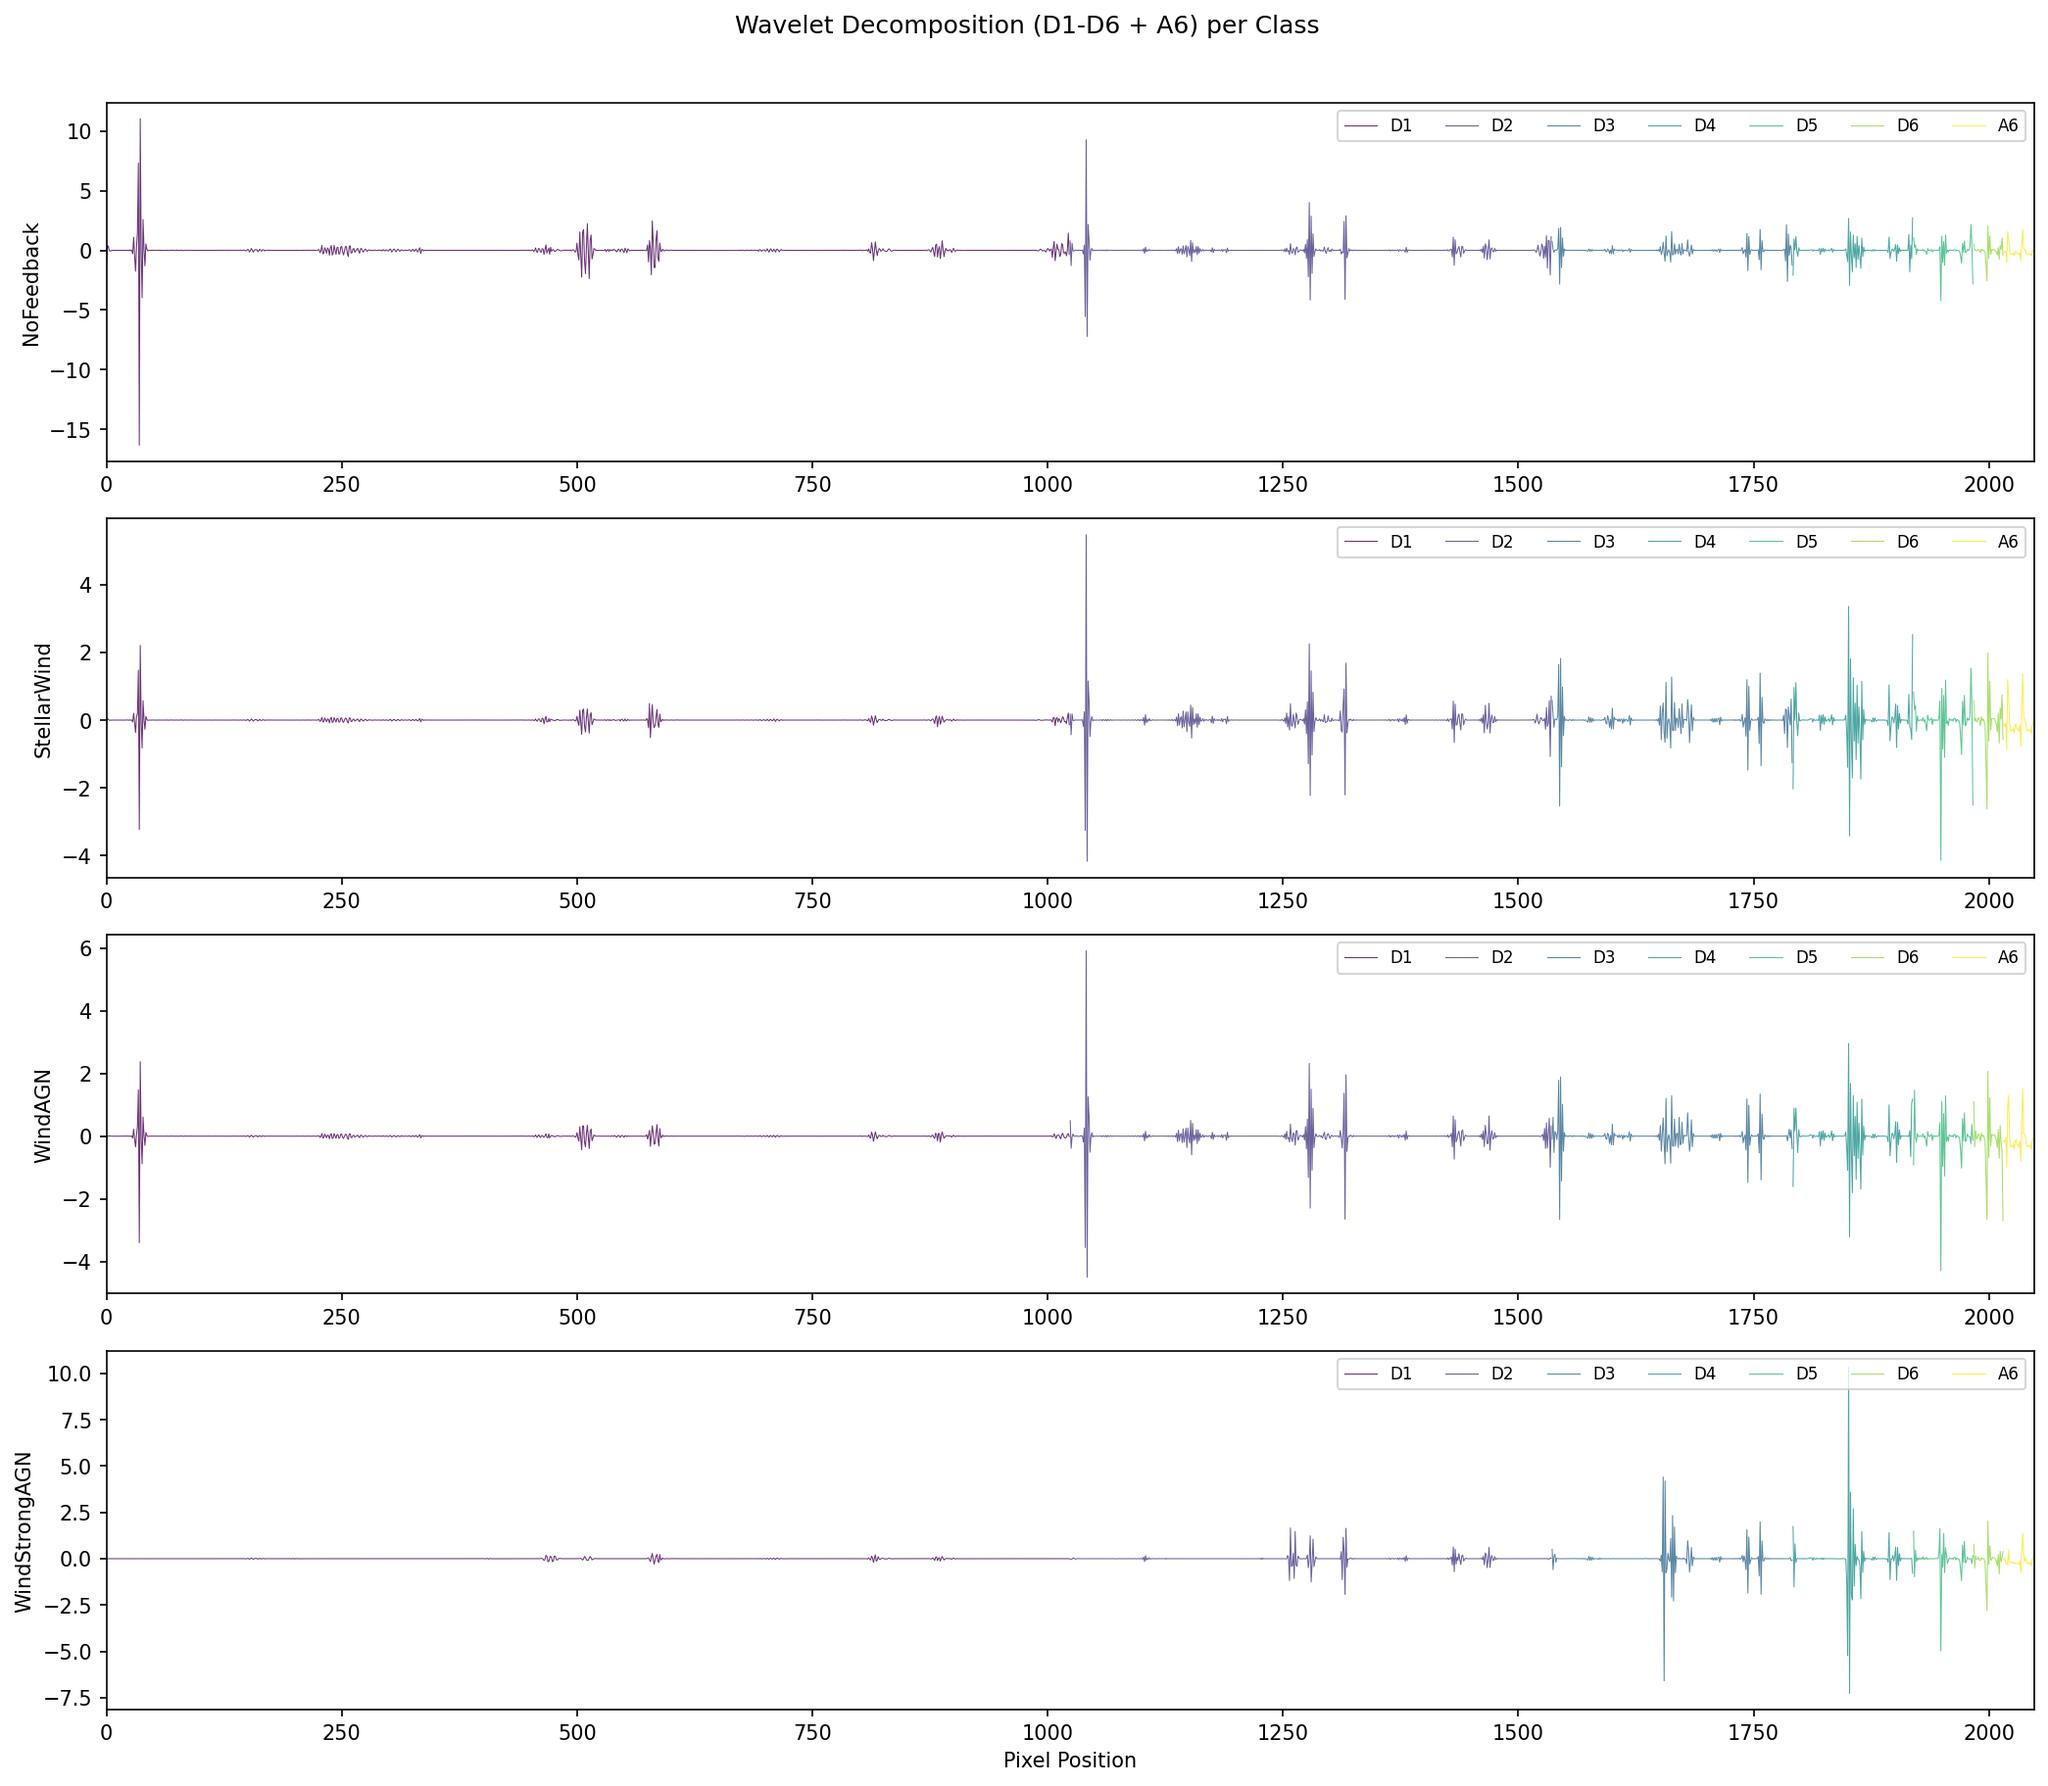
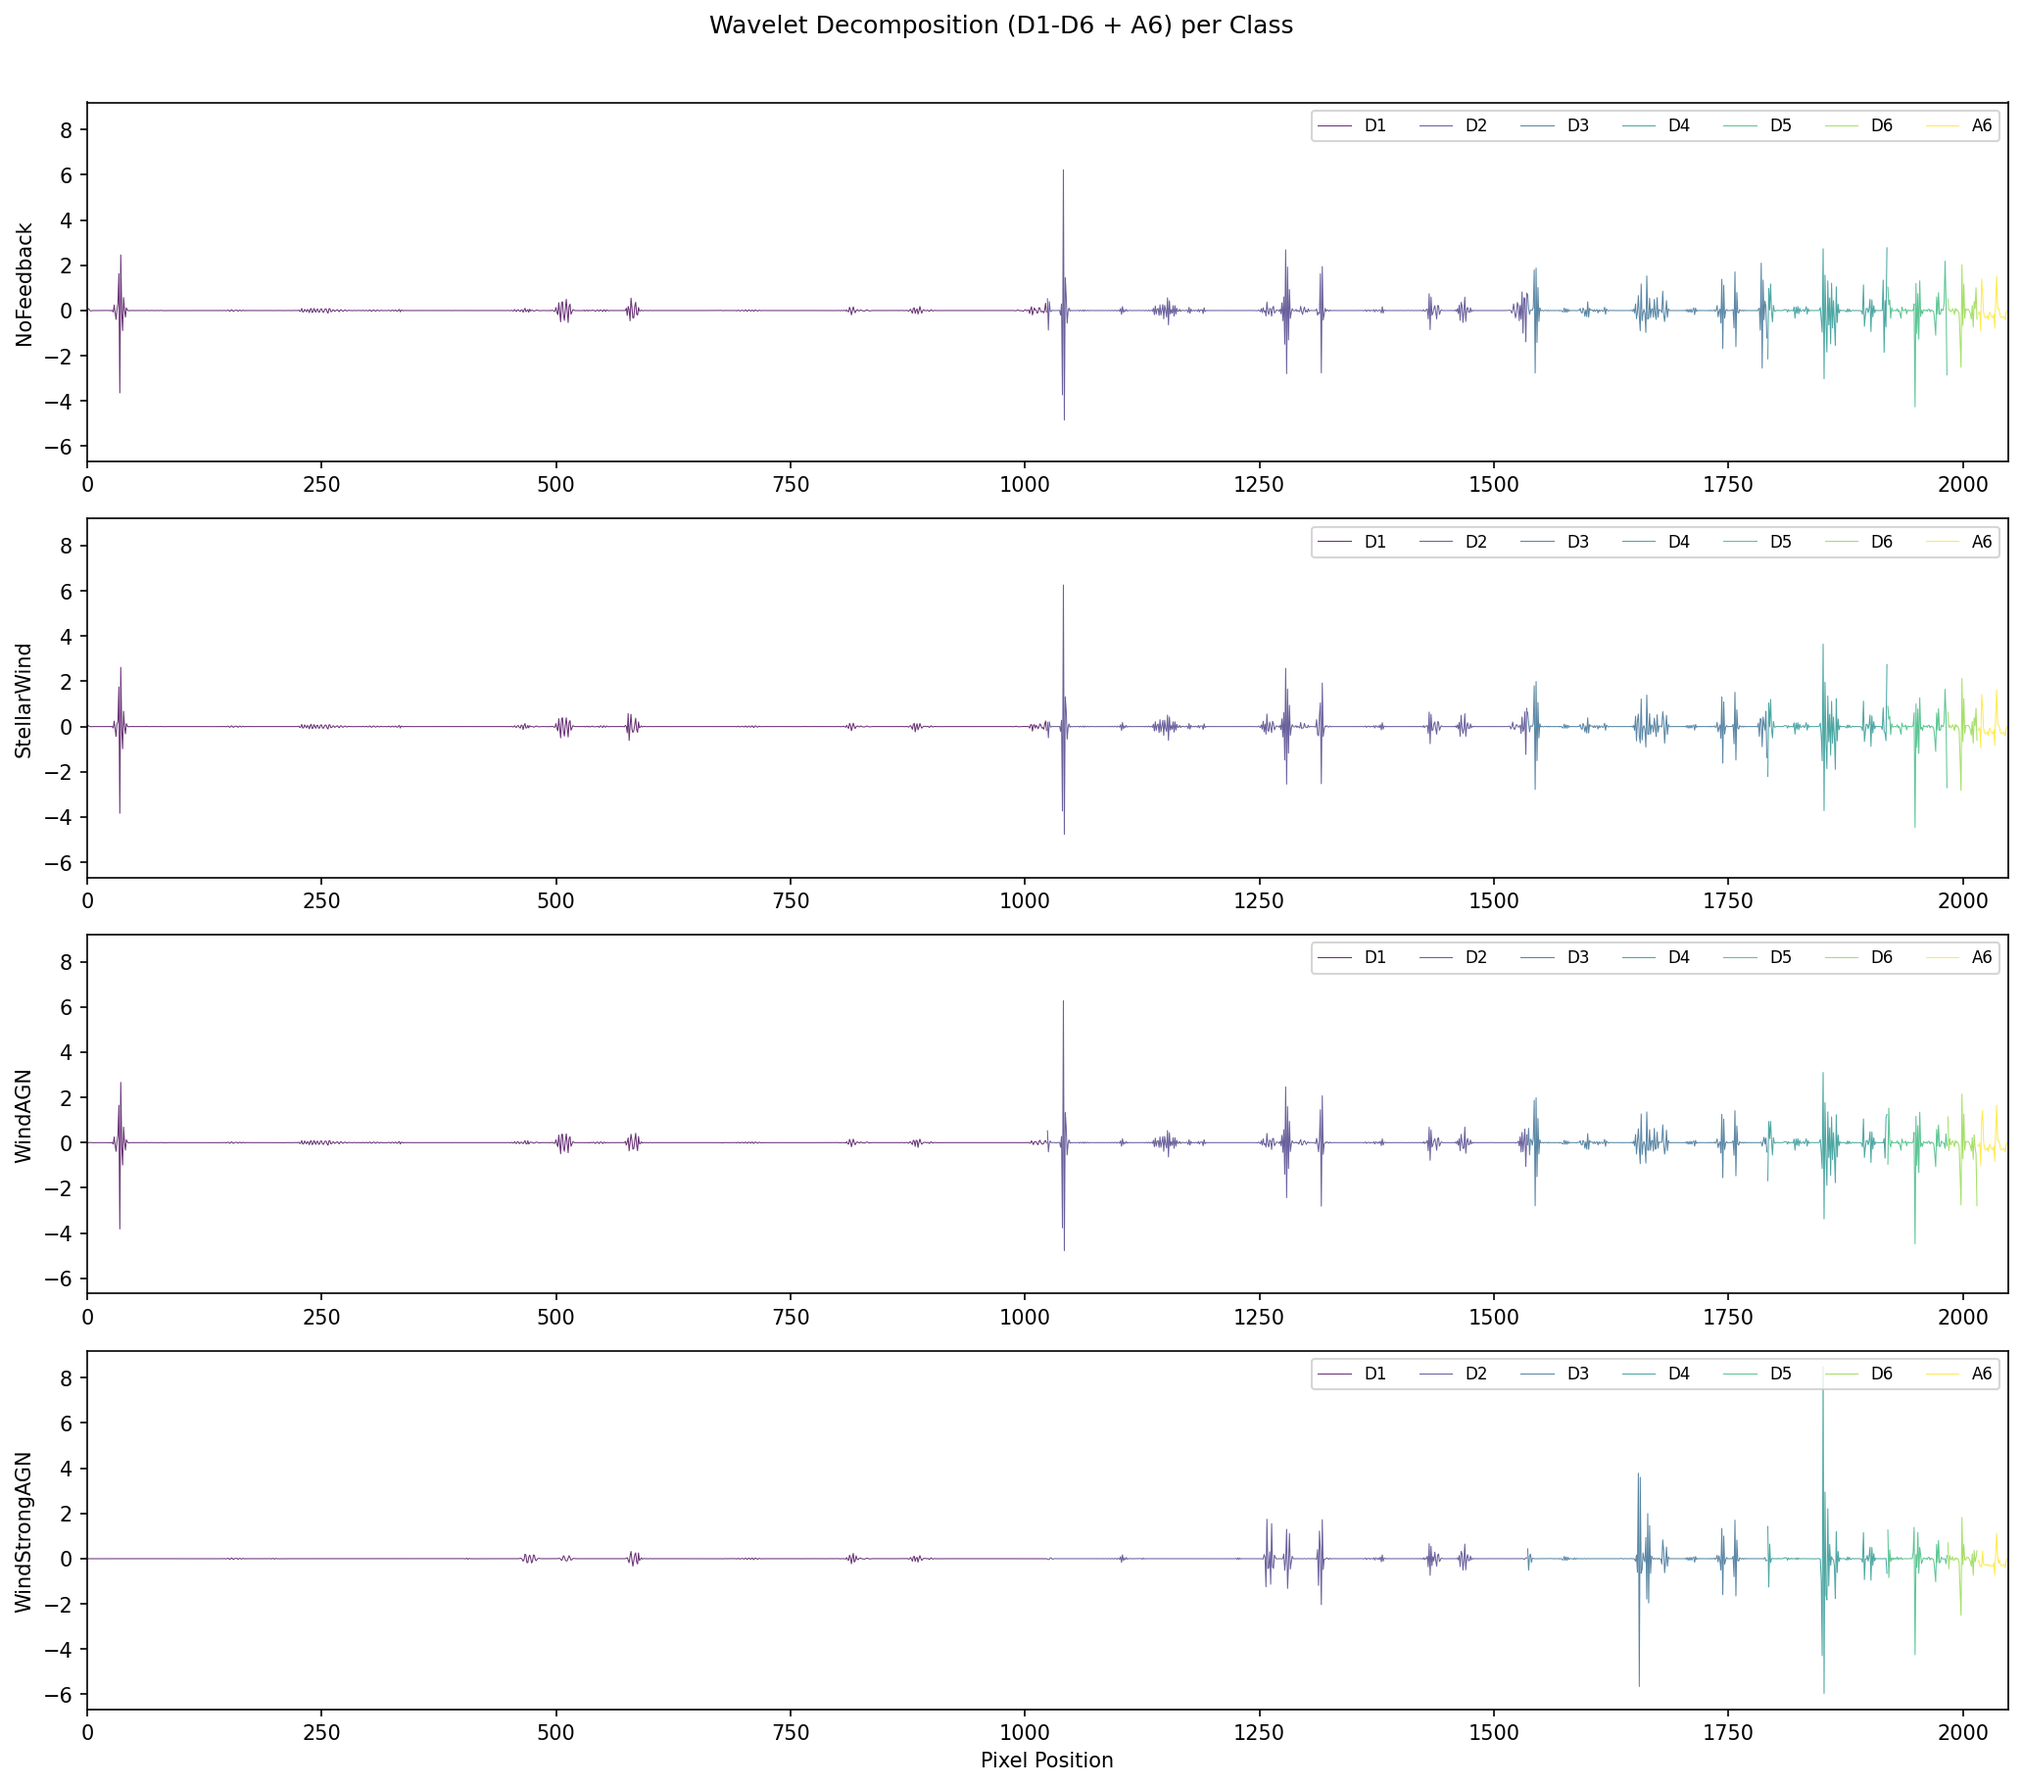
feat: implement global z-score normalization for wavelet features
- Add load_wavelet_global_normalized() method that normalizes across
  all sightlines (all classes combined) per wavelet level
- Update Stage 1 to use global normalization instead of per-class
- Regenerate figure with consistent y-axis scaling across panels
- Fix line endings in data.py (CRLF -> LF)

diff --git a/scripts/run_stage1.py b/scripts/run_stage1.py
@@ -75,6 +75,13 @@ def plot_wavelet_scalogram(X_wavelet, y, save_path):
     class_indices = [0, 16384, 32768, 49152]
     class_names = ['NoFeedback', 'StellarWind', 'WindAGN', 'WindStrongAGN']
 
+    # Compute global y-axis limits across all classes being plotted
+    y_min = min(X_wavelet[idx].min() for idx in class_indices)
+    y_max = max(X_wavelet[idx].max() for idx in class_indices)
+    # Add 5% padding
+    y_margin = (y_max - y_min) * 0.05
+    y_lim = (y_min - y_margin, y_max + y_margin)
+
     fig, axes = plt.subplots(4, 1, figsize=(14, 12))
 
     for row, (class_idx, class_name) in enumerate(zip(class_indices, class_names)):
@@ -89,6 +96,7 @@ def plot_wavelet_scalogram(X_wavelet, y, save_path):
 
         ax.set_ylabel(class_name)
         ax.set_xlim(0, 2048)
+        ax.set_ylim(y_lim)
         ax.legend(loc='upper right', ncol=7, fontsize=8)
 
     axes[-1].set_xlabel('Pixel Position')
@@ -151,10 +159,10 @@ def main():
     # Initialize data loader
     data = SignalClusteringData(flux_path=args.flux_path, wavelet_path=args.wavelet_path)
 
-    # Load data (wavelet with per-level z-score normalization)
-    print("\nLoading wavelet features (normalized per level)...")
-    X_wavelet_per_class, y = data.load_wavelet_per_class_normalized()
-    # Concatenate for overall statistics
+    # Load data (wavelet with per-level z-score normalization across all data)
+    print("\nLoading wavelet features (normalized per level across all classes)...")
+    X_wavelet_per_class, y = data.load_wavelet_global_normalized()
+    # Stack for overall statistics
     X_wavelet = np.vstack(X_wavelet_per_class)
     print(f"  Wavelet shape: {X_wavelet.shape}")
 

diff --git a/src/core/data.py b/src/core/data.py
@@ -175,6 +175,26 @@ class SignalClusteringData:
         X_normalized = [self.normalize_wavelet_per_level(X) for X in X_list]
         return X_normalized, y
 
+    def load_wavelet_global_normalized(self) -> Tuple[List[np.ndarray], np.ndarray]:
+        """
+        Load wavelet features as list of per-class arrays with global z-score normalization per level.
+        Normalization is computed across ALL data (all classes combined) before splitting per class.
+        Returns: (list of 4 normalized wavelet arrays, class labels)
+        """
+        X_list, y = self.load_wavelet_per_class()
+        # Stack all classes to compute global statistics
+        X_all = np.vstack(X_list)
+        # Normalize using global statistics per level
+        X_all_normalized = self.normalize_wavelet_per_level(X_all)
+        # Split back into per-class
+        X_normalized = []
+        start = 0
+        for X in X_list:
+            end = start + X.shape[0]
+            X_normalized.append(X_all_normalized[start:end])
+            start = end
+        return X_normalized, y
+
     def load_flux_per_class(self) -> Tuple[List[np.ndarray], np.ndarray]:
         """
         Load flux as list of per-class arrays.
